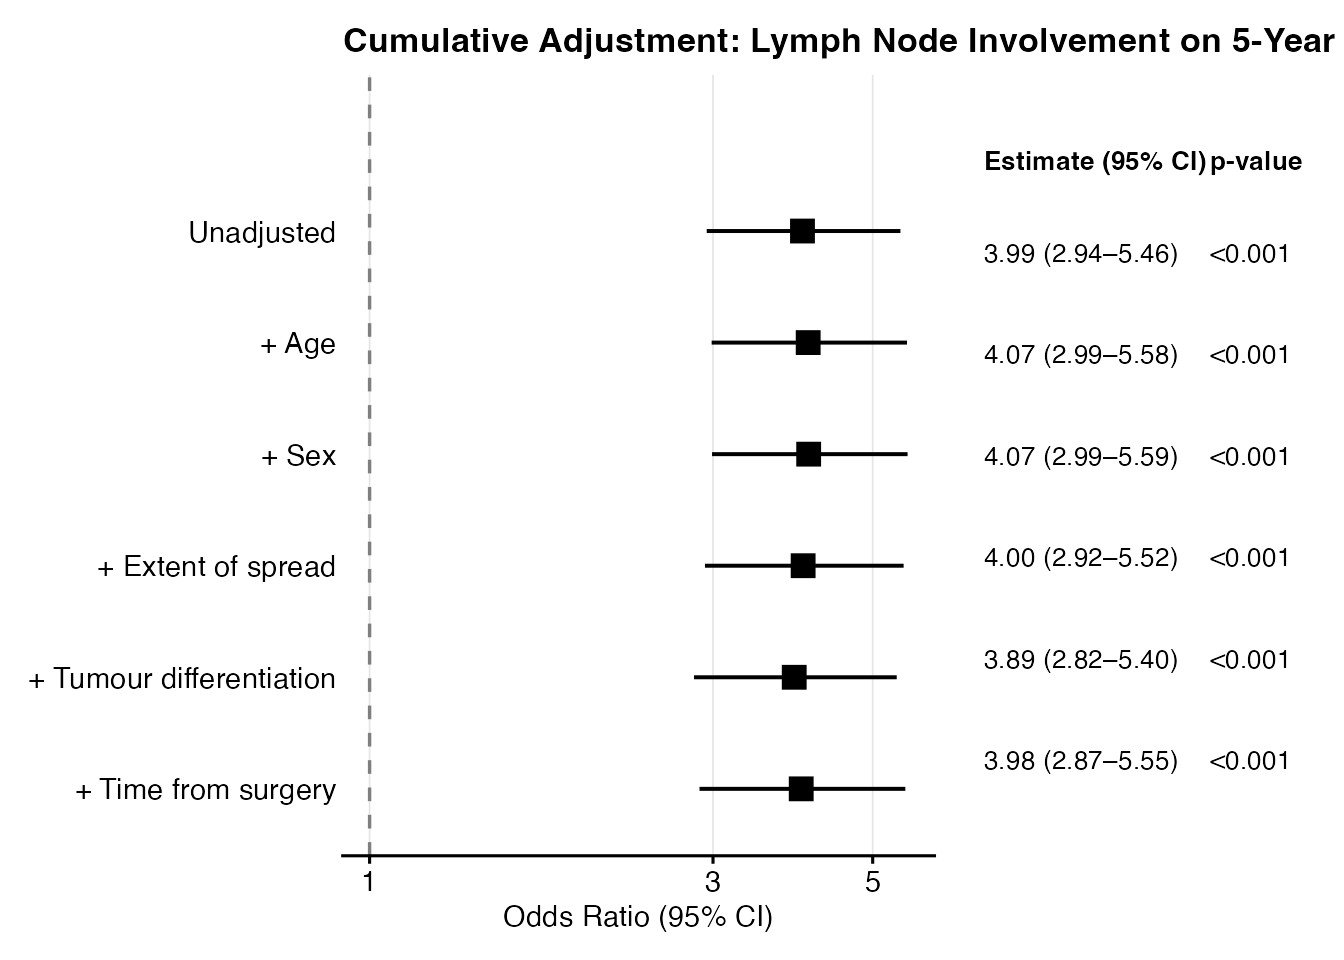
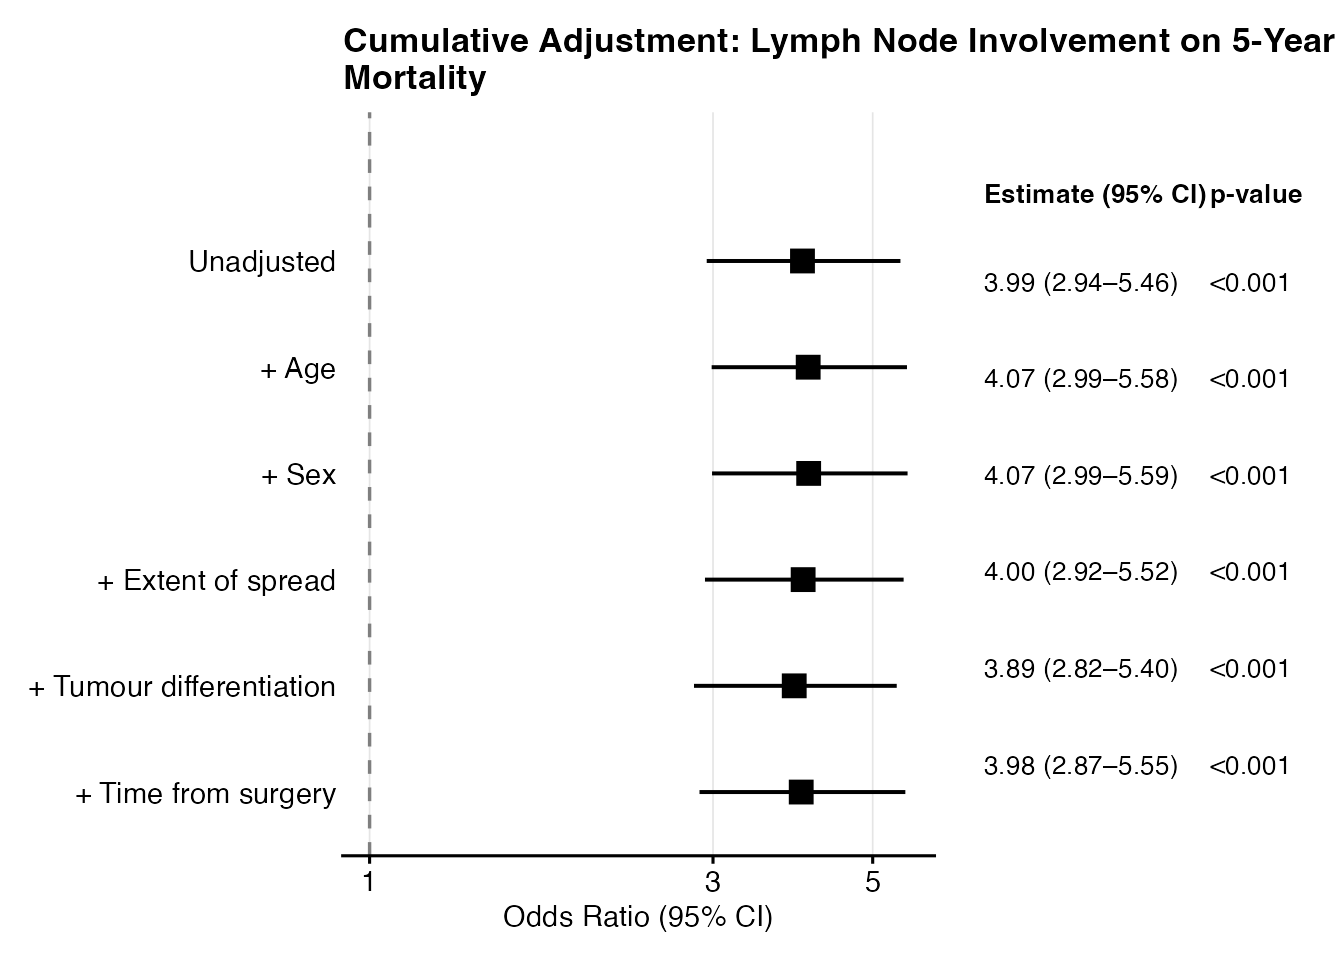
Rebuild vignette article with updated plots and title wrapping

diff --git a/docs/articles/introduction.html b/docs/articles/introduction.html
@@ -108,7 +108,7 @@ research question throughout is whether having &gt;4 positive lymph
 nodes (<code>node4</code>) increases the risk of 5-year mortality,
 before and after adjusting for patient and tumour characteristics.</p>
 <div class="sourceCode" id="cb2"><pre class="downlit sourceCode r">
-<code class="sourceCode R"><span><span class="kw"><a href="https://rdrr.io/r/base/library.html" class="external-link">library</a></span><span class="op">(</span><span class="va"><a href="https://github.com/chrisvarghese/ggadjustedforest" class="external-link">ggadjustedforest</a></span><span class="op">)</span></span>
+<code class="sourceCode R"><span><span class="kw"><a href="https://rdrr.io/r/base/library.html" class="external-link">library</a></span><span class="op">(</span><span class="va"><a href="https://github.com/kriz98/gg_adjusted_forest" class="external-link">ggadjustedforest</a></span><span class="op">)</span></span>
 <span><span class="co">#&gt; ggadjustedforest 0.1.0 -- Forest plots for exposure effects, hiding confounders by design.</span></span>
 <span><span class="co">#&gt; See `?gg_adjusted_forest` to get started.</span></span>
 <span><span class="kw"><a href="https://rdrr.io/r/base/library.html" class="external-link">library</a></span><span class="op">(</span><span class="va"><a href="https://github.com/ewenharrison/finalfit" class="external-link">finalfit</a></span><span class="op">)</span></span>